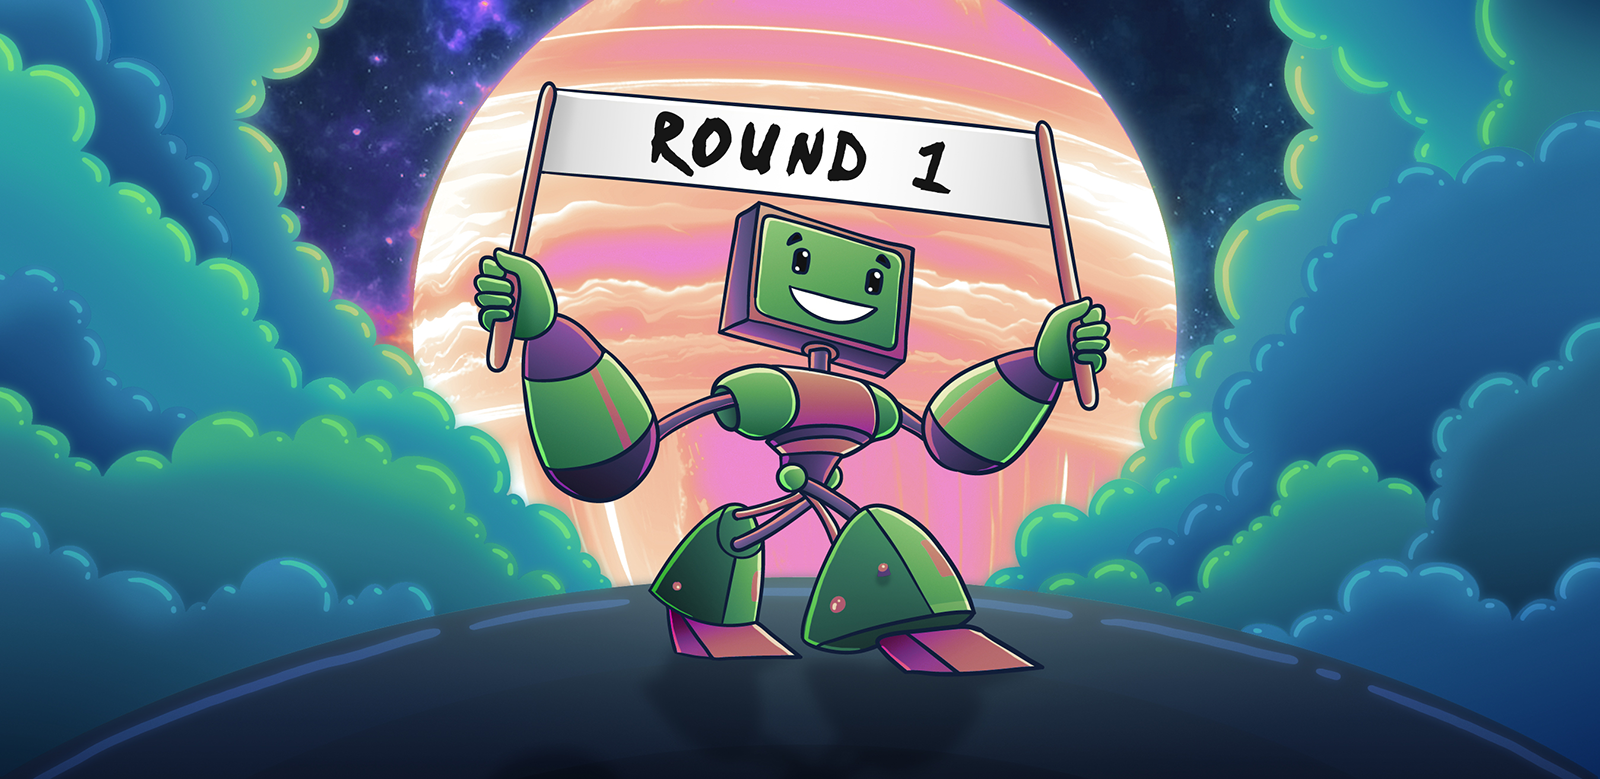
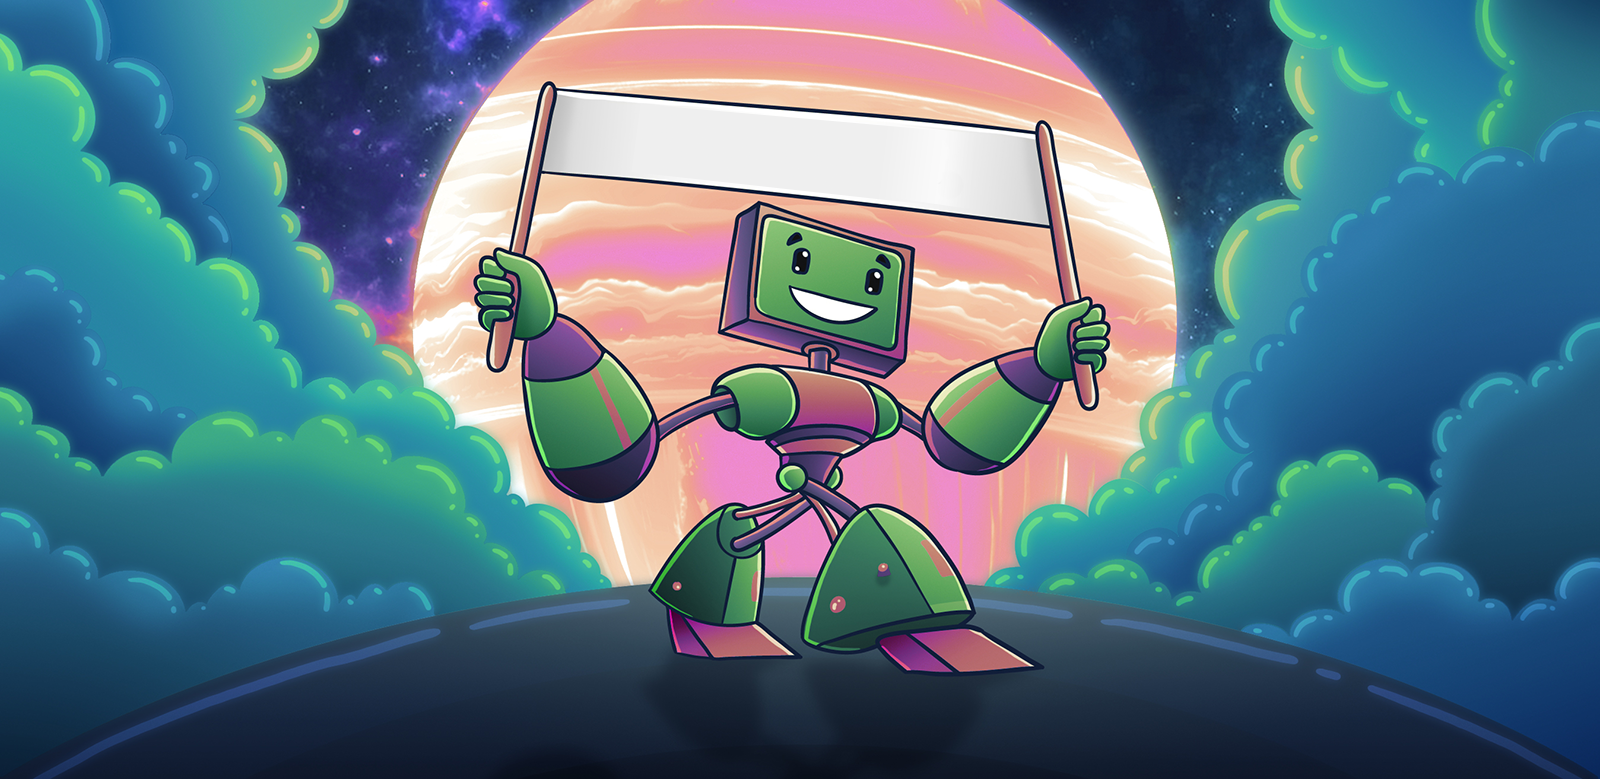
rounds are shown

Changed region(s): [[0.4062, 0.1232, 0.5938, 0.2465]]

diff --git a/src/script.js b/src/script.js
@@ -14,6 +14,16 @@ const showWinScreen = visible => {
     document.querySelector('#win-screen').style.display = 'none';
   }
 };
+const showRoundScreen = visible => {
+  if (visible) {
+    document.querySelector('canvas').style.display = 'none';
+    document.querySelector('#round-screen').style.display = 'block';
+    document.querySelector('#win-screen').style.display = 'none';
+  } else {
+    document.querySelector('canvas').style.display = 'block';
+    document.querySelector('#round-screen').style.display = 'none';
+  }
+};
 const displayWinner = p => {
   showWinScreen(true);
   document
@@ -78,6 +88,9 @@ const initEmojis = () => {
   emojis = Object.keys(targetMap);
 };
 const start = () => {
+  showRoundScreen(true);
+
+  document.querySelector('#round-number').innerHTML = rounds;
   initEmojis();
   let o;
   for (i = 0; i < 90; i++) {
@@ -178,20 +191,14 @@ const start = () => {
   setTimeout(() => {
     c.fillStyle = '#0000';
     clear();
-    write(
-      'Round ' + rounds,
-      center.x,
-      center.y,
-      SIZE * 2,
-      (c.fillStyle = 'white'),
-      true
-    );
+
     temp_div.appendChild(startButton);
   }, 3000);
 
   startButton.addEventListener('click', () => {
     document.querySelector('canvas').style.display = 'block';
     document.querySelector('#win-screen').style.display = 'none';
+    showRoundScreen(false);
     startButton.innerHTML = 'Starting...';
     gameStartTimeout = setTimeout(() => {
       gameOn = true;
@@ -214,6 +221,7 @@ let t = Date.now(),
   tempY;
 let update = () => {
   if (!gameOn) return;
+  showRoundScreen(false);
   elapsed = Date.now() - t;
   clear();
   pieces.sort((a, b) => {
@@ -286,8 +294,9 @@ let update = () => {
 
   //check end condition
   if (isEndGame()) {
+    //showRoundScreen(true);
     gameRestartTimeout = setTimeout(start, 2000);
-    setTimeout(() => startButton.click(), 2002);
+    //setTimeout(() => startButton.click(), 2002);
     gameOn = false;
   }
 };

diff --git a/src/index.html b/src/index.html
@@ -81,6 +81,10 @@
             src="/images/win-scissors.png"
             style="width: 100%" />
         </div>
+        <div id="round-screen" class="canvas-width">
+          <div id="round-display">Round <span id="round-number">1</span></div>
+          <img id="win-paper" src="/images/round.png" style="width: 100%" />
+        </div>
       </div>
 
       <script type="text/javascript" src="script.js"></script>

diff --git a/src/index.css b/src/index.css
@@ -165,3 +165,7 @@ canvas {
 #win-screen {
   display: none;
 }
+
+#round-display {
+  color: white;
+}
